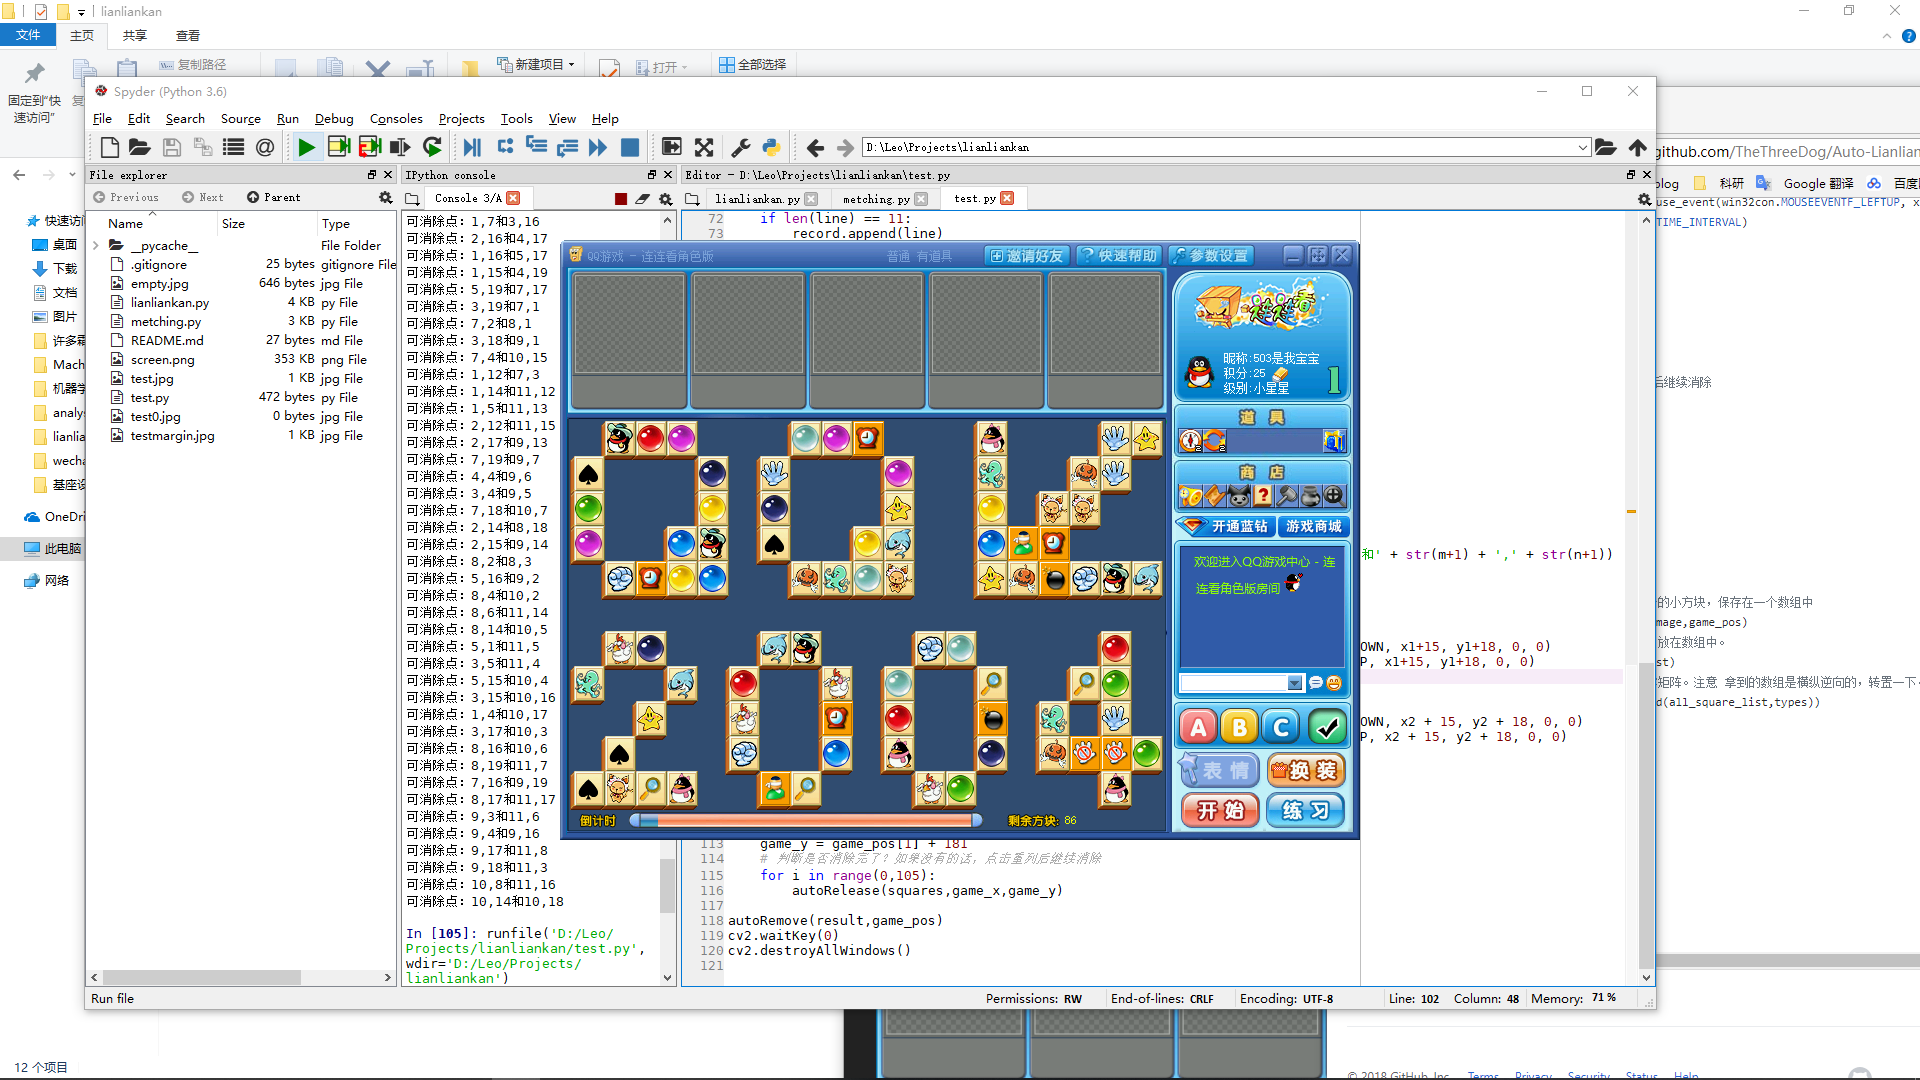
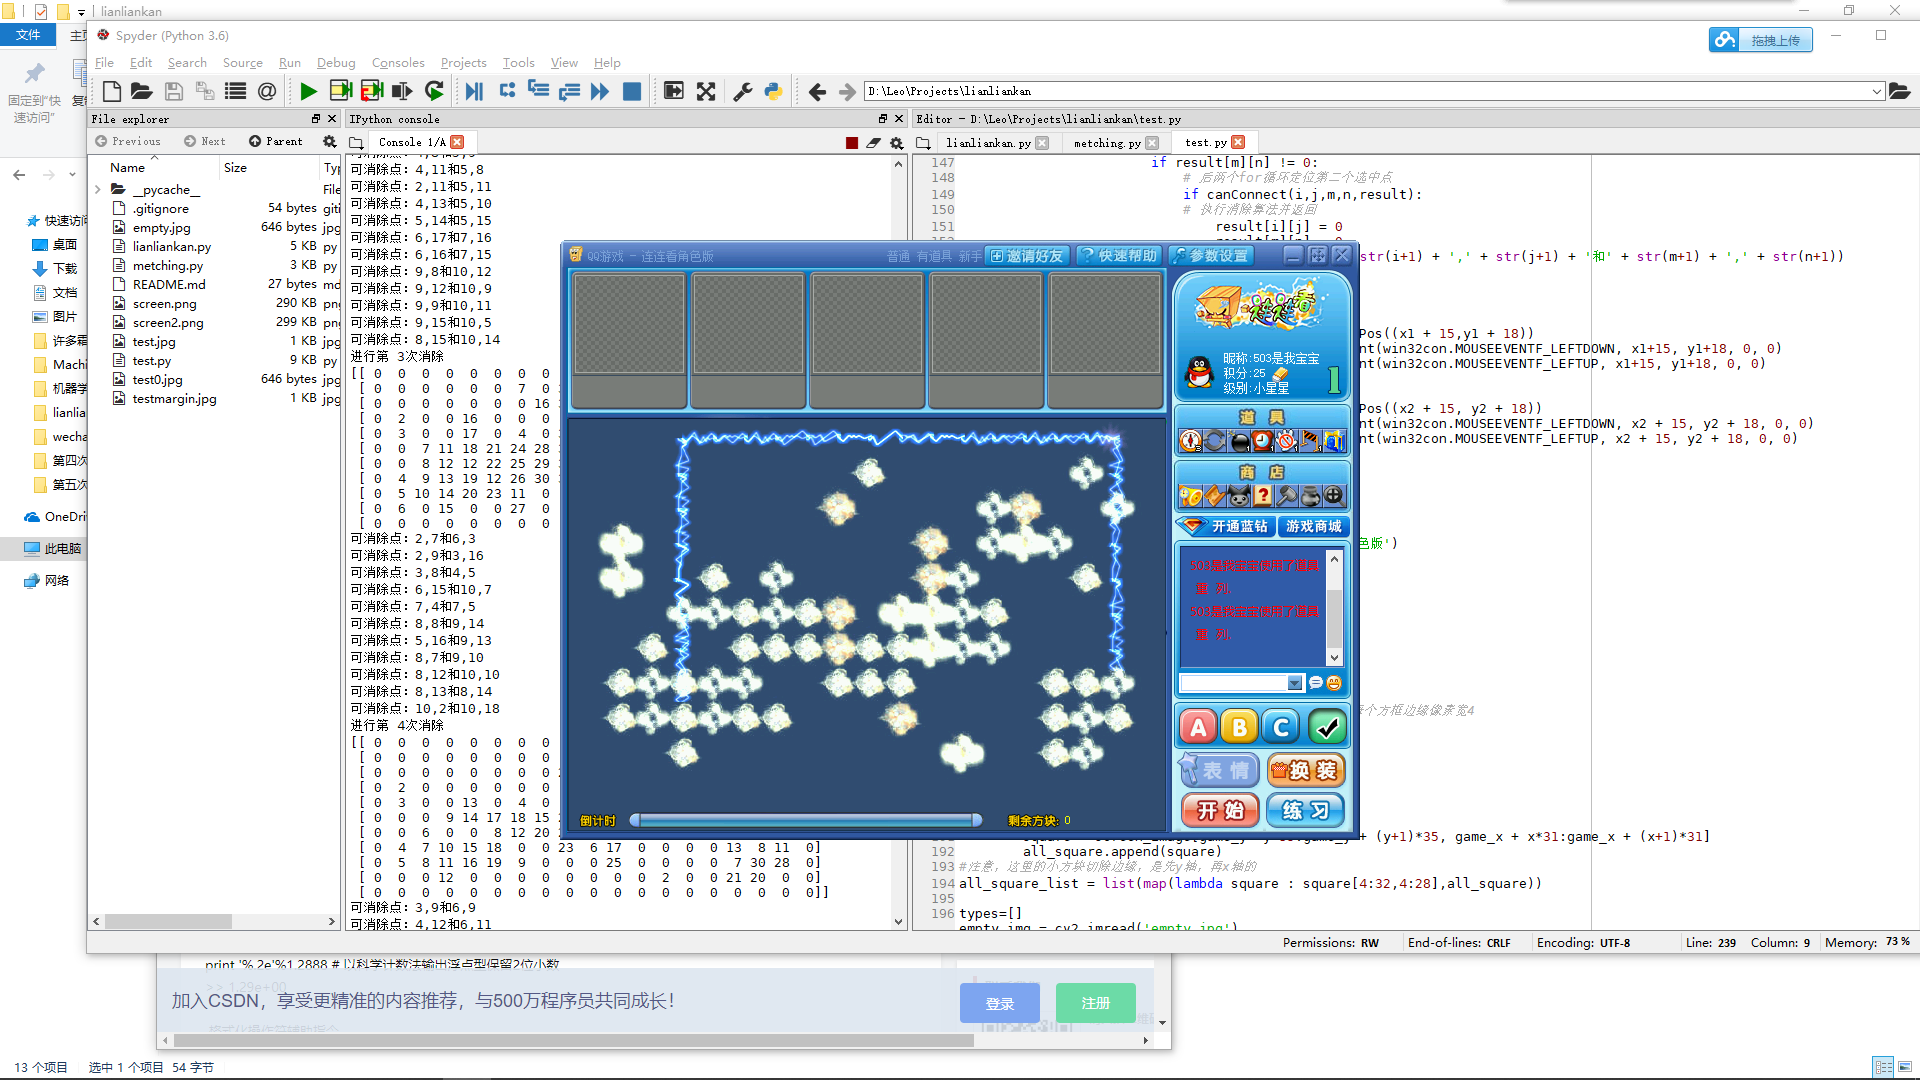
解决出现死局要用道具情况，增加判断再循环部分，同时增加图片

diff --git a/test.py b/test.py
@@ -167,6 +167,8 @@ def autoRelease(result,game_x,game_y):
                                 return True
     return False
 
+
+
 window = win32gui.FindWindow(None,'QQ游戏 - 连连看角色版')
 shell = win32com.client.Dispatch("WScript.Shell")
 shell.SendKeys('%')
@@ -219,15 +221,62 @@ for square in all_square_list:
 result = np.transpose(record)
 print(result)
 #    return record
+for i in range(108):
+            autoRelease(result,game_x,game_y)
 
-#def autoRemove(squares,game_pos):
-    # 每次消除一对儿，QQ的连连看最多105对儿
-    #game_x = game_pos[0] + 10
-    #game_y = game_pos[1] + 181
-    # 判断是否消除完了？如果没有的话，点击重列后继续消除
-for i in range(0,105):
-    autoRelease(result,game_x,game_y)
+for i in range(5):
+    if  sum(sum(result))==0:
+        break
+    if sum(sum(result))!=0:
+        print ('进行第 %d次消除' % (i+2))
+        window = win32gui.FindWindow(None,'QQ游戏 - 连连看角色版')
+        shell = win32com.client.Dispatch("WScript.Shell")
+        shell.SendKeys('%')
+        win32gui.SetForegroundWindow(window)
+        pos = win32gui.GetWindowRect(window)
+        game_pos = (pos[0],pos[1])
+        
+        
+        scim = ImageGrab.grab()
+        scim.save('screen2.png')
+        screen_image2 = cv2.imread('screen2.png')
+        
+        all_square2 = []
+        
+        for x in range(0,19):
+            for y in range(0,11):
+                square2 = screen_image2[game_y +y*35:game_y + (y+1)*35, game_x + x*31:game_x + (x+1)*31]
+                all_square2.append(square2)
+        all_square_list2 = list(map(lambda square2 : square2[4:32,4:28],all_square2))
+        
+        types2=[]
+        empty_img2 = cv2.imread('empty.jpg')
+        types2.append(empty_img2)
+        for square in all_square_list2:
+            if not isImageExist(square, types2):
+                types2.append(square)
 
-#autoRemove(result,game_pos)
-cv2.waitKey(0)
-cv2.destroyAllWindows()
+#这部分，将所有切割出的19*11个方块分类，加上空白方块有38种，编号0-37.然后将19*11个方块依次比较来
+#做编号分类，将所有的方块，编码成数字矩阵。
+        record2 = []
+        line2 = []
+        for square in all_square_list2:
+            num = 0
+            for type1 in types2:
+                res2 = cv2.subtract(square, type1)
+                if not np.any(res2):
+                    line2.append(num)
+                    break
+                num+=1
+#这里line是二维数组，len（line）是它的行数，既纵列方块个数；
+#for square in all_square_list  这里是纵向遍历的，所以后面要transpose，恢复成正常视觉顺序。
+            if len(line2) == 11:
+                record2.append(line2)
+                line2=[]
+
+        result = np.transpose(record2)
+        print (np.transpose(record2))
+        for i in range(108):
+            autoRelease(result,game_x,game_y)
+
+
